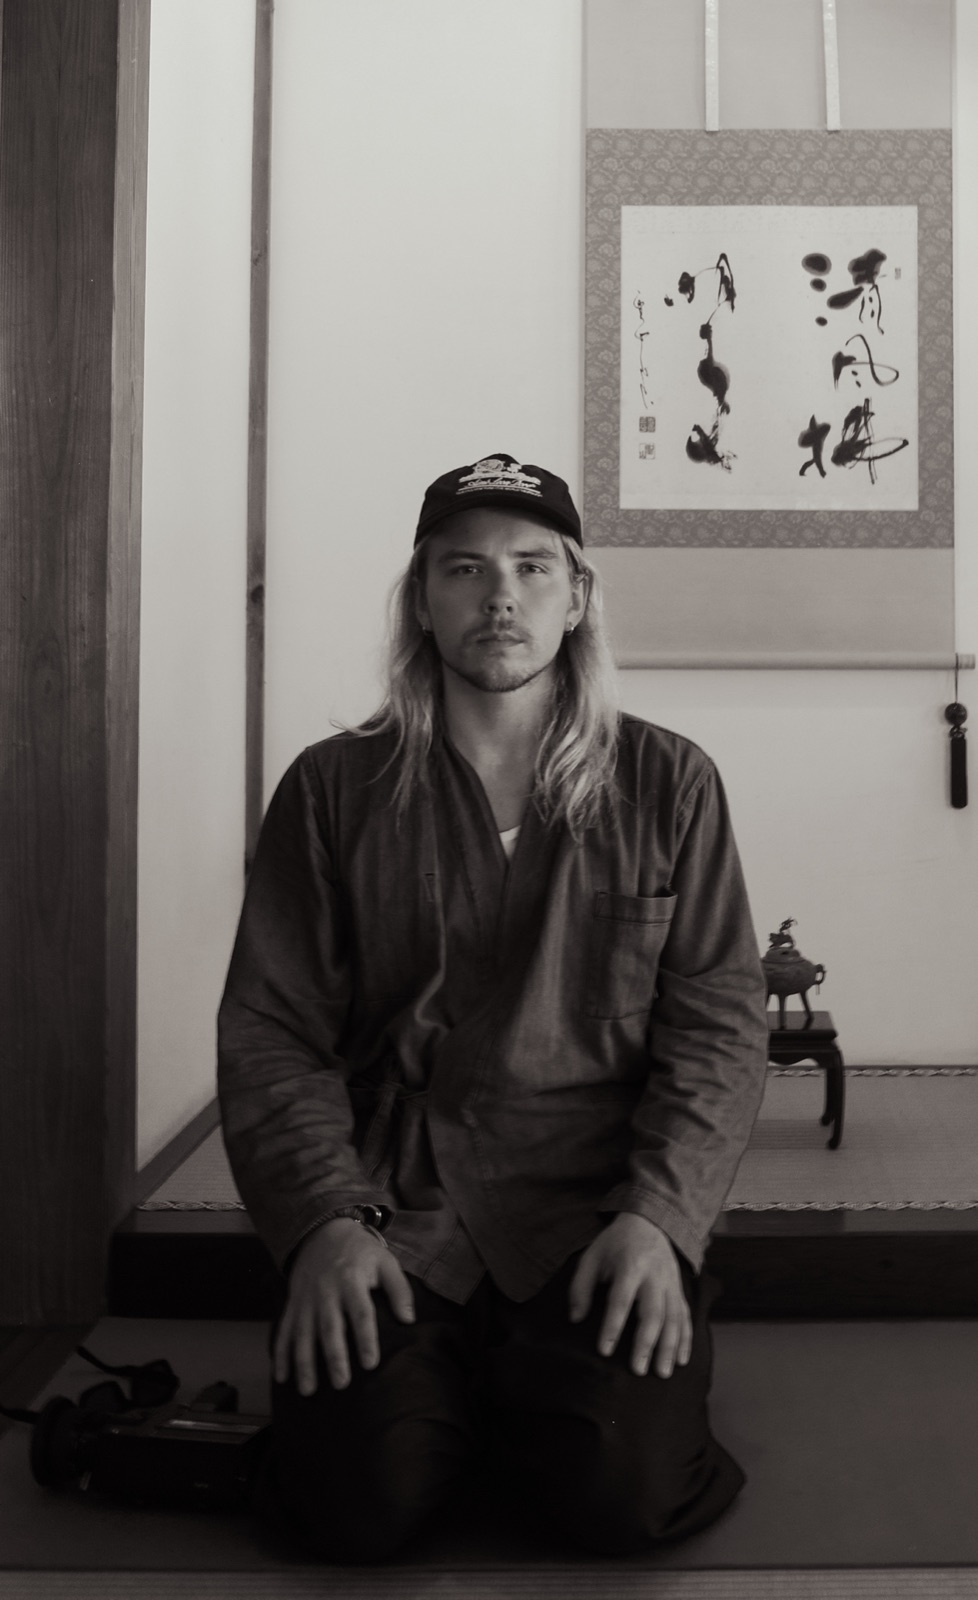
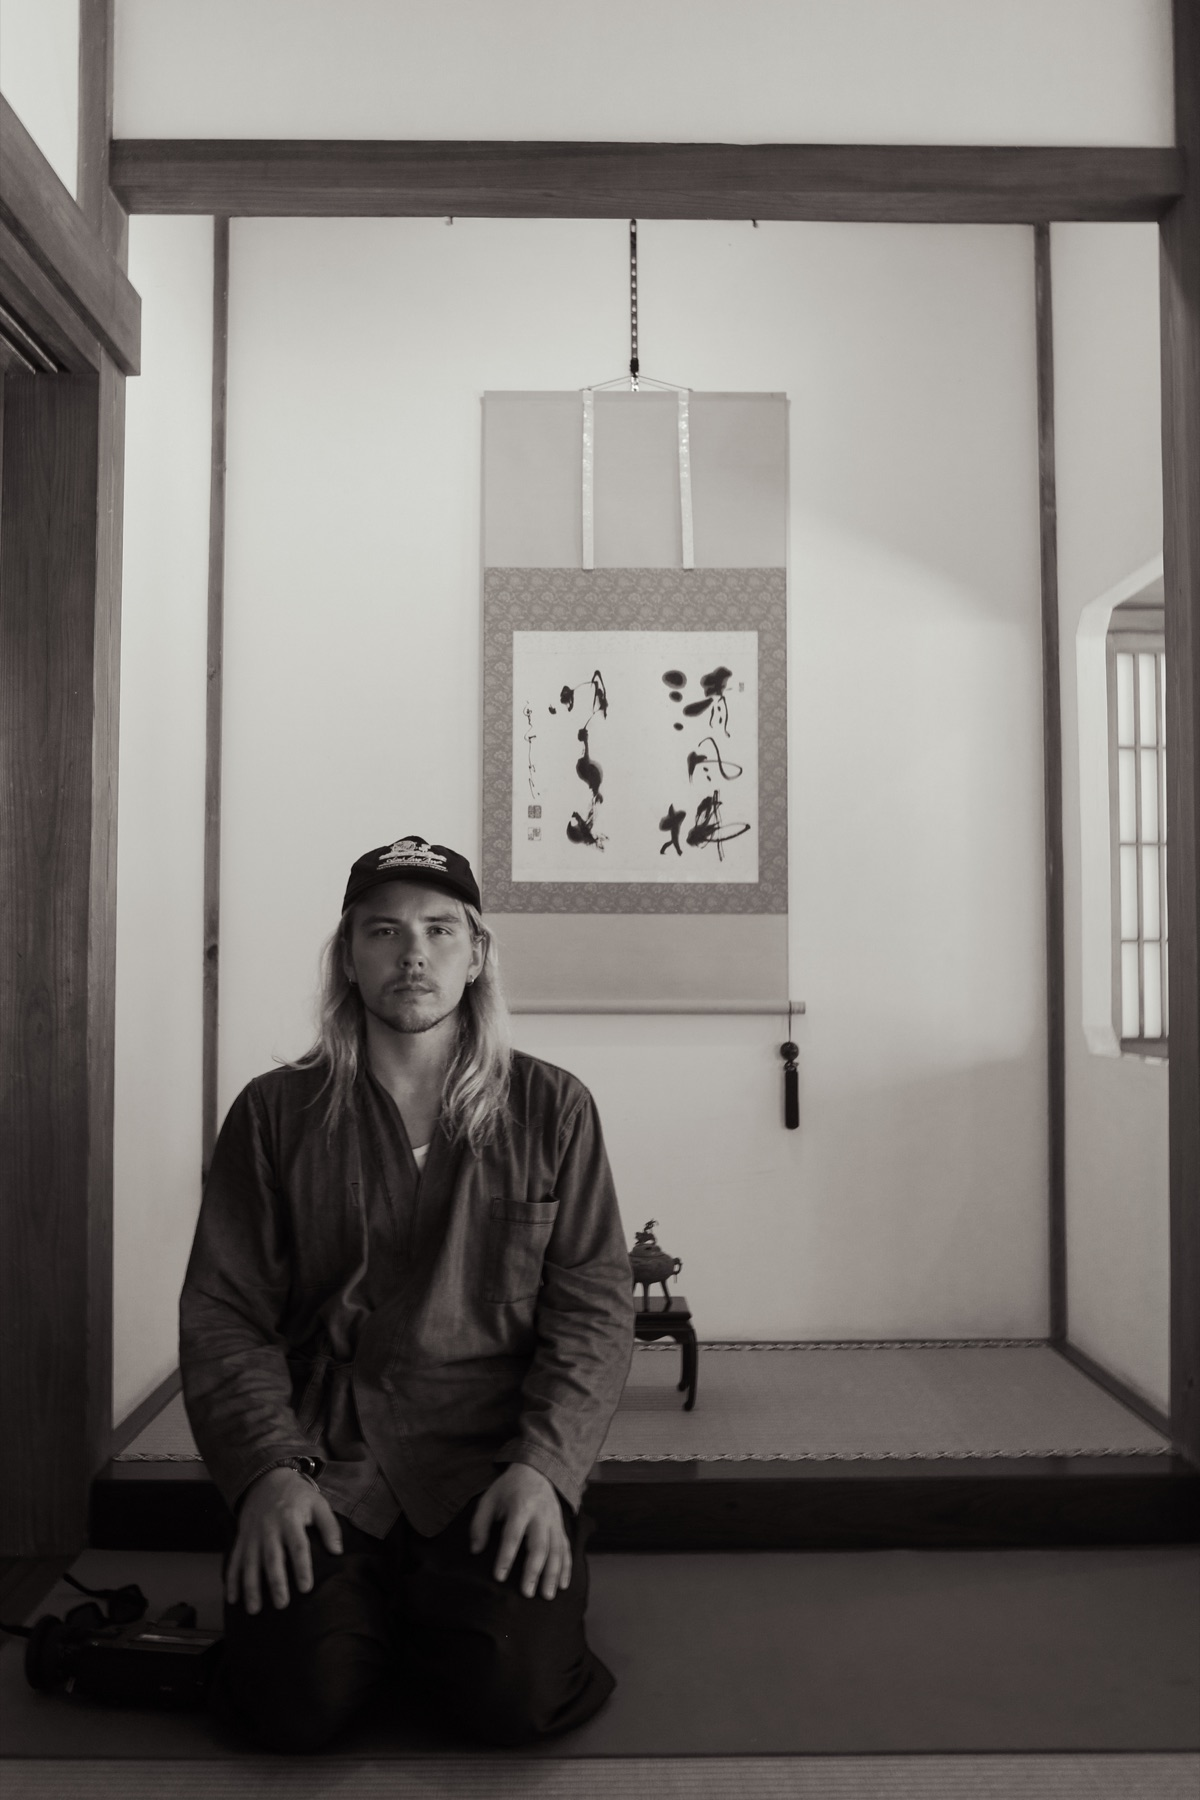
Show the portrait uncropped in its native 2:3
Swaps in the wider original of the same frame. The earlier file was a
tighter export shown in a 4:5 plate, which cut the alcove and the window;
this one keeps the room intact, so the About block now reads as a composed
interior rather than a headshot — which is closer to what the site is
selling.

diff --git a/src/content/blurData.ts b/src/content/blurData.ts
@@ -14,5 +14,5 @@ export const blurData: Record<string, string> = {
[5 lines of base64/hex data omitted]
 } as const;

diff --git a/src/content/en.ts b/src/content/en.ts
@@ -119,7 +119,8 @@ export const site = {
     role: "Photographer",
     portrait: {
       src: "/photos/portrait/dmitri-gubin.jpg",
-      ratio: "4/5",
+      /* The frame's own ratio — this one is shown uncropped. */
+      ratio: "2/3",
       caption: "Dmitri Gubin",
     },
   },

diff --git a/plans/2026-08-05-mvp-portfolio.md b/plans/2026-08-05-mvp-portfolio.md
@@ -76,7 +76,7 @@
 - [x] Контактный блок: email, WhatsApp, Instagram. Формы нет — прямые ссылки. *(2026-08-05)*
 - [x] **Подставить реальные фото** вместо плейсхолдеров. *(2026-08-05)*
 - [x] Дрон-видео: постер + `<video controls preload="none">`. Автоплей-луп отвергнут — 17 МБ не должны грузиться до тапа. *(2026-08-05)*
-- [x] About: портрет Дмитрия, вёрстка 4/8, подпись под плитой. *(2026-08-05)*
+- [x] About: портрет Дмитрия, вёрстка 4/8, подпись под плитой. Кадр показан целиком в родных 2:3 — по просьбе Дмитрия не кадрируем. *(2026-08-05)*
 - [ ] Мобильная версия — проверить на реальном телефоне. *(в headless проверено: переполнения нет, `scrollWidth` 375 при вьюпорте 390)*
 
 ## Фаза 3 — Финал
